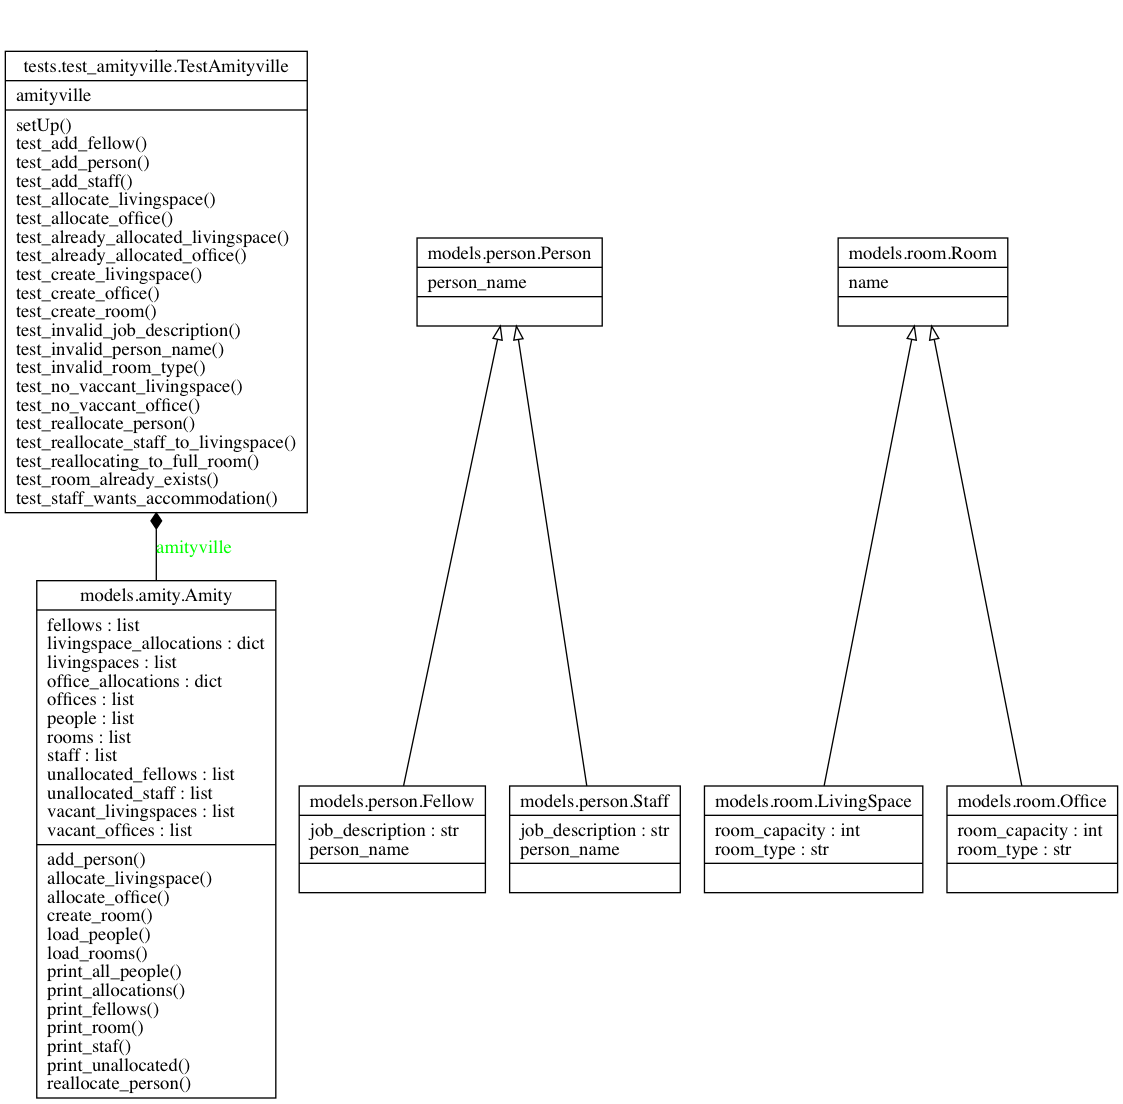
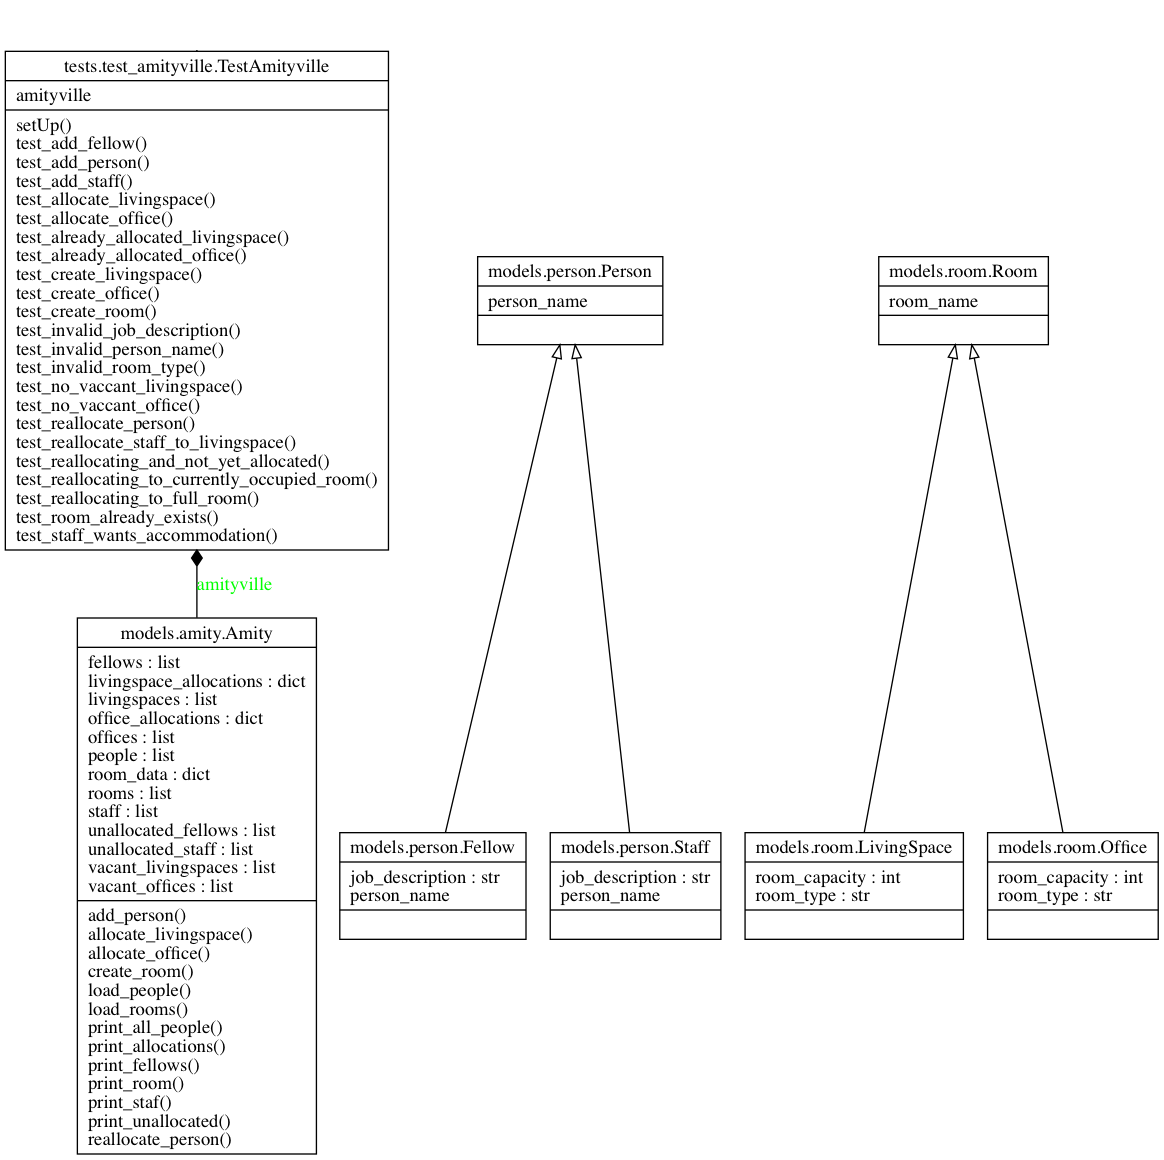
Update UML Diagram

diff --git a/models/room.py b/models/room.py
@@ -9,7 +9,7 @@ class Room(object):
     """
 
     def __init__(self, room_name):
-        self.name = room_name
+        self.room_name = room_name
 
 
 class Office(Room):
